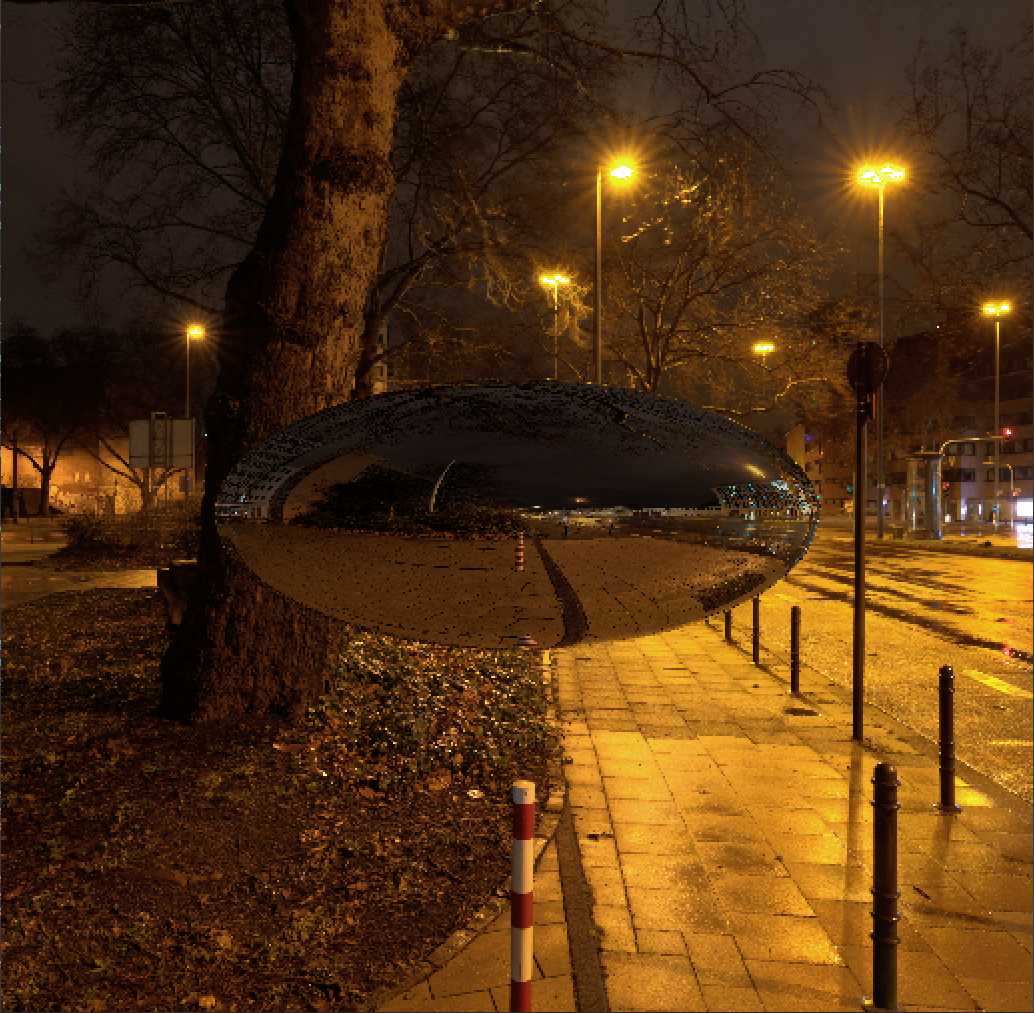
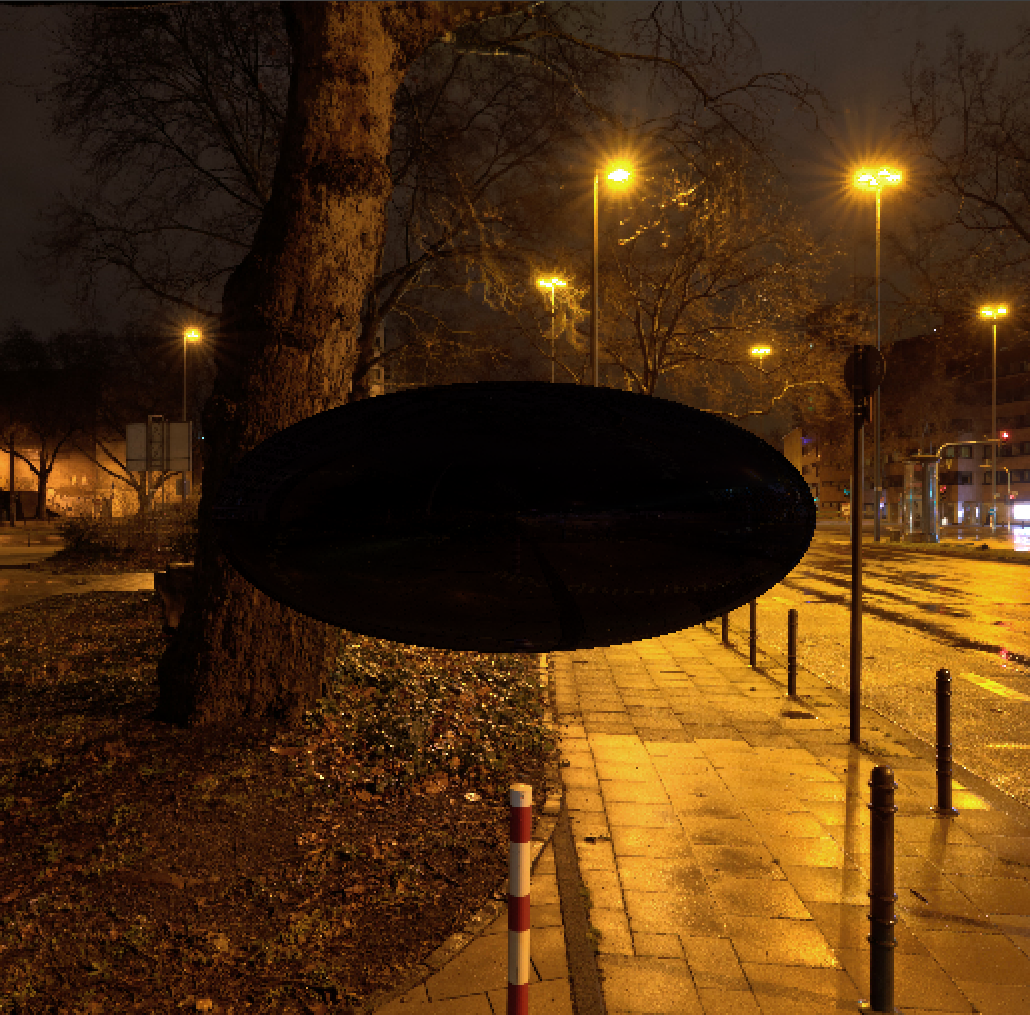
Add texture a materiales

diff --git a/Lib/rt.py b/Lib/rt.py
@@ -110,9 +110,10 @@ class Raytracer(object):
         material = intercept.obj.material
         surfaceColor = material.diffuse
         if material.texture and intercept.texcoords:
-            #intercept.texcoords = (min(1, intercept.texcoords[0]), min(1, intercept.texcoords[1]))   
+            intercept.texcoords = (min(1, intercept.texcoords[0]), min(1, intercept.texcoords[1]))   
             tX = intercept.texcoords[0] * material.texture.get_width() - 1
             tY = intercept.texcoords[1] * material.texture.get_height() - 1
+
             texColor = material.texture.get_at((int(tX), int(tY)))
             texColor = [i / 255 for i in texColor]
             surfaceColor = [surfaceColor[i] * texColor[i] for i in range(3)]
@@ -141,11 +142,11 @@ class Raytracer(object):
                         lightDistance = nnp.norm(lightDir)
                         lightDir = nnp.divTF(lightDir, lightDistance)
                         
-                        shadowIntersect = self.rtCastRay(intercept.point, lightDir, intercept.obj)
-                    
-                        if shadowIntersect==None or (light.lightType=="Point" and shadowIntersect != None and shadowIntersect.distance > lightDistance):
-                            diffuseColor = [(diffuseColor[i]+light.getDiffuseColor(intercept)[i]) for i in range(3)]
-                            specularColor = [(specularColor[i]+light.getSpecularColor(intercept, self.camPosition)[i]) for i in range(3)]
+                    shadowIntersect = self.rtCastRay(intercept.point, lightDir, intercept.obj)
+                
+                    if shadowIntersect==None or (light.lightType=="Point" and shadowIntersect != None and shadowIntersect.distance > lightDistance):
+                        diffuseColor = [(diffuseColor[i]+light.getDiffuseColor(intercept)[i]) for i in range(3)]
+                        specularColor = [(specularColor[i]+light.getSpecularColor(intercept, self.camPosition)[i]) for i in range(3)]
             
         elif material.matType == REFLECTIVE:
             reflect = reflectVector(intercept.normal, nnp.multiply(-1, rayDirection))

diff --git a/Main.py b/Main.py
@@ -27,28 +27,28 @@ screen.set_alpha(None)
 
 raytracer = Raytracer(screen)
 raytracer.envMap = pygame.image.load("Res/City.jpg")
-#skyTexture = pygame.image.load("Res/sky.jpg")
-ballTexture = pygame.image.load("Res/ball_texture.png")
+skyTexture = pygame.image.load("Res/sky.jpg")
+parkingTexture = pygame.image.load("Res/parkinglot.bmp")
 raytracer.rtClearColor(0.25,0.25,0.25)
 
-blanco = Material(diffuse=(255,255,255), spec = 10, ks = 0.02)
+blanco = Material(diffuse=(255,255,255), spec = 10, ks = 0.02, texture=skyTexture)
 # red = Material(diffuse=(255,0,0), spec = 10, ks = 0.02)
 # oro = Material(diffuse=(206,163,96), spec = 256, ks = 0.2, matType=OPAQUE)
 # haze = Material(diffuse=(95,75,139), spec = 32, ks = 0.1)
-mirror = Material(diffuse=(200,200, 200), spec =64, ks = 0.02, matType=REFLECTIVE)
+mirror = Material(diffuse=(200,200, 200), spec =64, ks = 0.02, texture=skyTexture, matType=REFLECTIVE)
 # sky = Material(spec=64, ks=0.1, texture=skyTexture, matType=REFLECTIVE)
 # grass = Material(diffuse=(100,225,100), spec = 46, ks = 0.05)
-glass =  Material(diffuse=(100,255, 255), spec =64, ior = 1.5, ks = 0.02, matType=TRANSPARENT)
+glass =  Material(diffuse=(100,255, 255), spec =64, ior = 1.5, ks = 0.02, texture=parkingTexture, matType=TRANSPARENT)
 # ball = Material(spec=50, ks=0.4, texture=ballTexture, matType=OPAQUE) 
 
 objetos = [
-            OvalSphere(position=(0,0,-6), radius=(2, 0.9, 1.0), material=blanco),
+             OvalSphere(position=(0,0,-6), radius=(2, 0.9, 1.0), material=blanco),
             # OvalSphere(position=(0,0,-6), radius=(2, 0.9, 1.0), material=mirror), #Material Reflectivo
             # OvalSphere(position=(0,0,-6), radius=(2, 0.9, 1.0), material=glass), #Material Transparente
             ]
 
 luces = [
-    AmbientLight(intensity=0.4, color=(1,0.8,1)),
+    AmbientLight(intensity=0.8, color=(1,0.8,1)),
     DirectionalLight(direction=(0,0,-1), intensity=0.2, color=(0.5,1,1)),
     PointLight(point=(-2,1,-4.5), intensity=1, color=(1,1,1))
 ]
